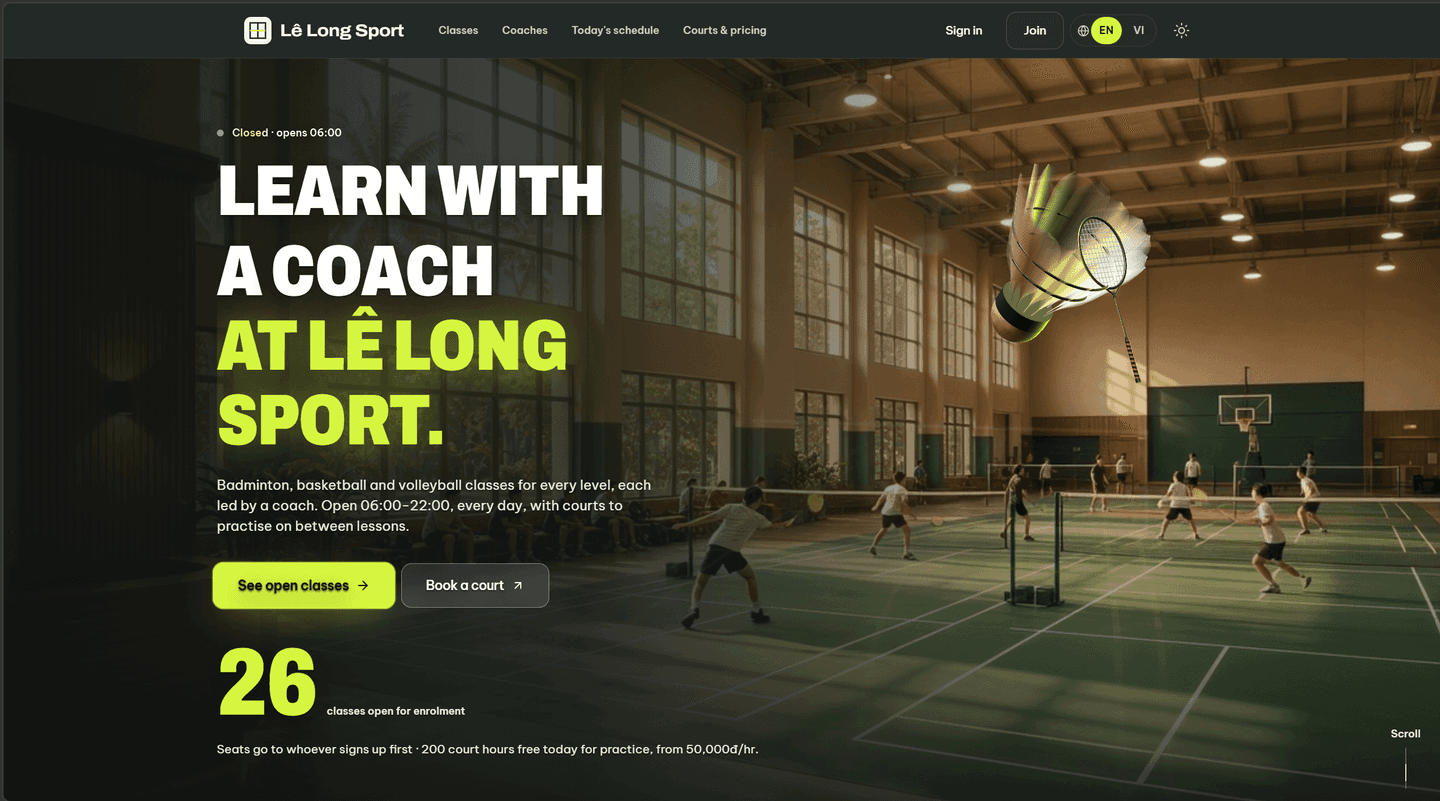
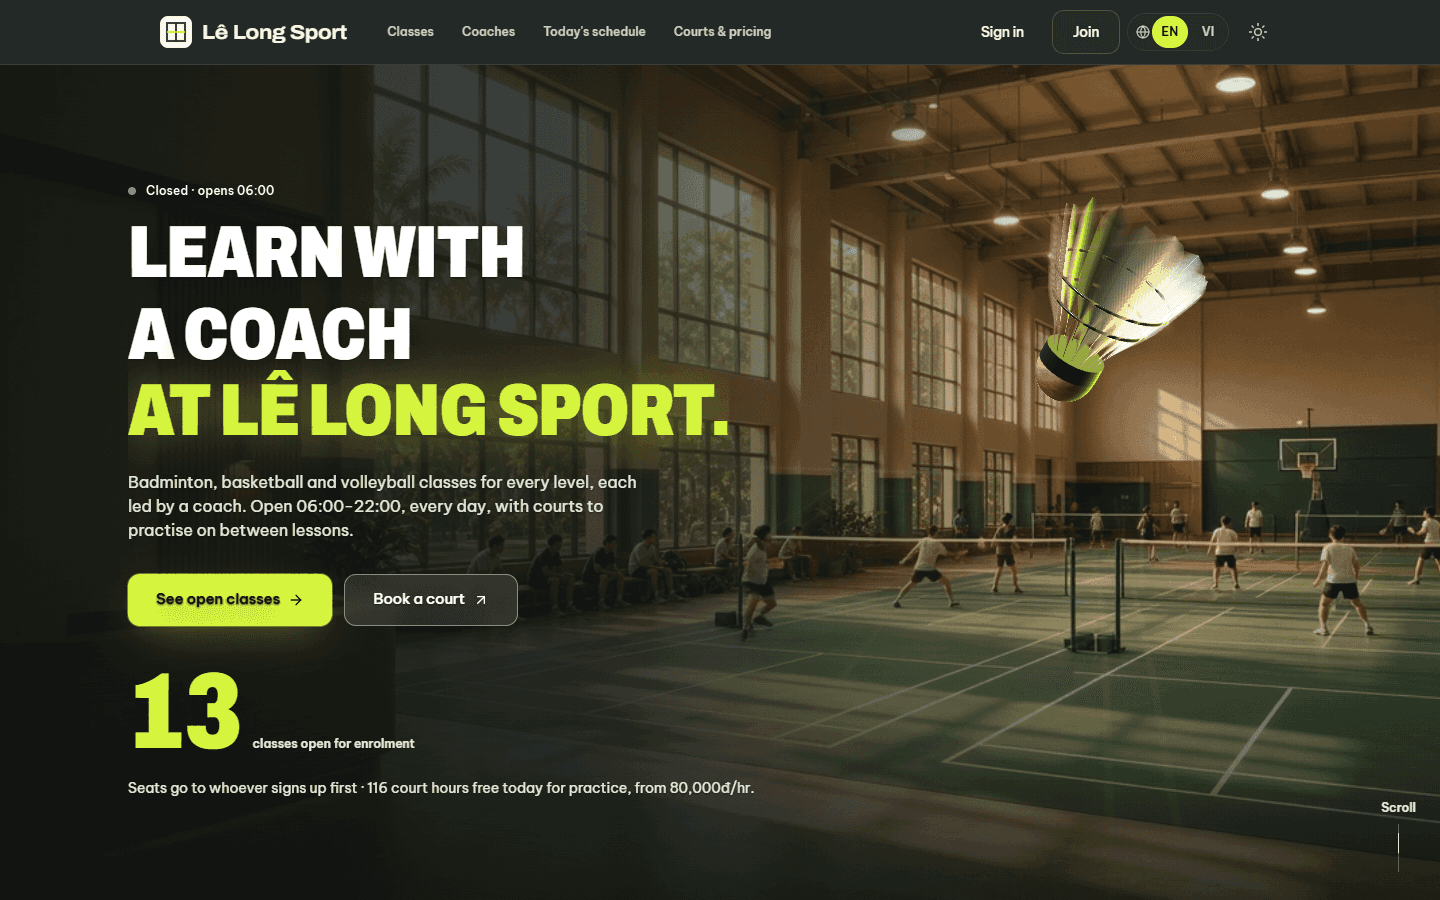
docs: refresh landing screenshot after full page load

diff --git a/README.md b/README.md
@@ -19,7 +19,7 @@ Arena3 is an academic team project at FPT University. The interface uses the cen
 
 ## Screenshots
 
-The landing capture was supplied by the project owner. The remaining captures use the running local app with synthetic seed data. Desktop captures are 1440 × 900; mobile captures are 390 × 844. The supplied landing image keeps its original aspect ratio.
+All captures use the running local app with synthetic seed data. Desktop captures are 1440 × 900; mobile captures are 390 × 844.
 
 | Front desk and finance                                                                         | Teaching and member experience                                                                                           |
 | ---------------------------------------------------------------------------------------------- | ------------------------------------------------------------------------------------------------------------------------ |
@@ -164,7 +164,7 @@ To refresh screenshots, start a local app containing only seed/demo data, then r
 npm run screenshots -- --seed-demo
 ```
 
-Playwright uses bundled Chromium or an installed Chrome/Edge. If needed, install its browser with `npx playwright install chromium`. Screenshots keep the default app theme, reduce motion for stable captures, and are compressed to at most 300 KB each and 3 MB total. Inspect every image before publishing. An owner-supplied landing capture can be retained with `--landing-image /path/to/capture.png`.
+Playwright uses bundled Chromium or an installed Chrome/Edge. If needed, install its browser with `npx playwright install chromium`. Screenshots keep the default app theme. The landing capture waits for its normal intro, visible content and counters to settle; other screens reduce motion. PNGs are compressed to at most 300 KB each and 3 MB total. Inspect every image before publishing. To refresh just the landing page, run `npm run screenshots -- --seed-demo --only 01-landing.png`.
 
 ## Team
 
